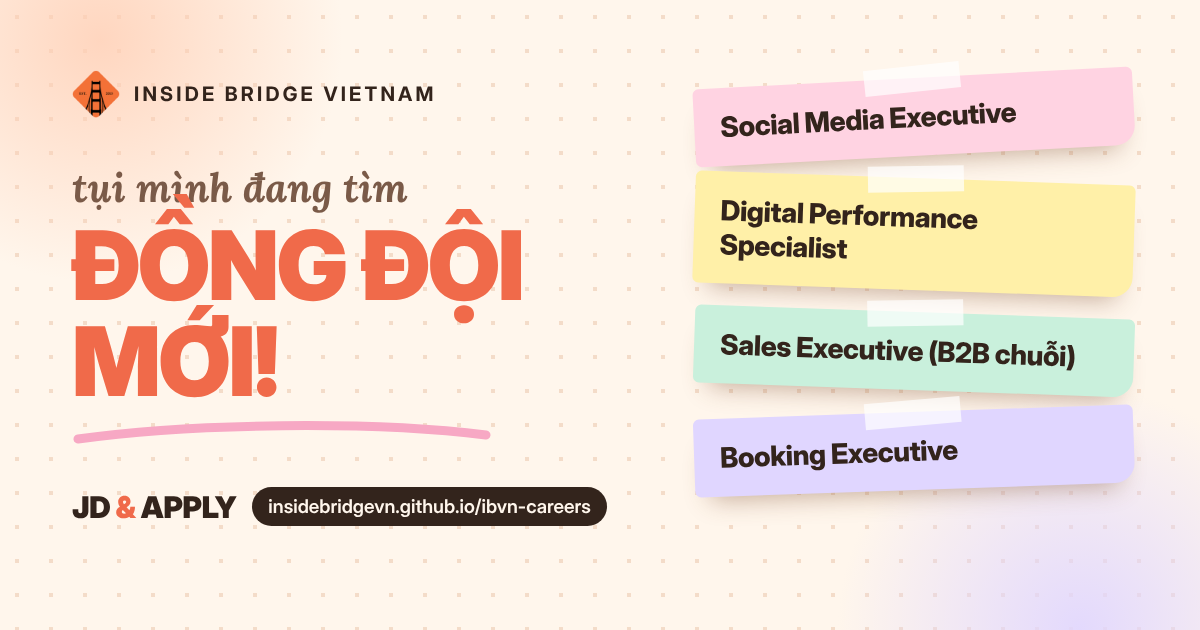
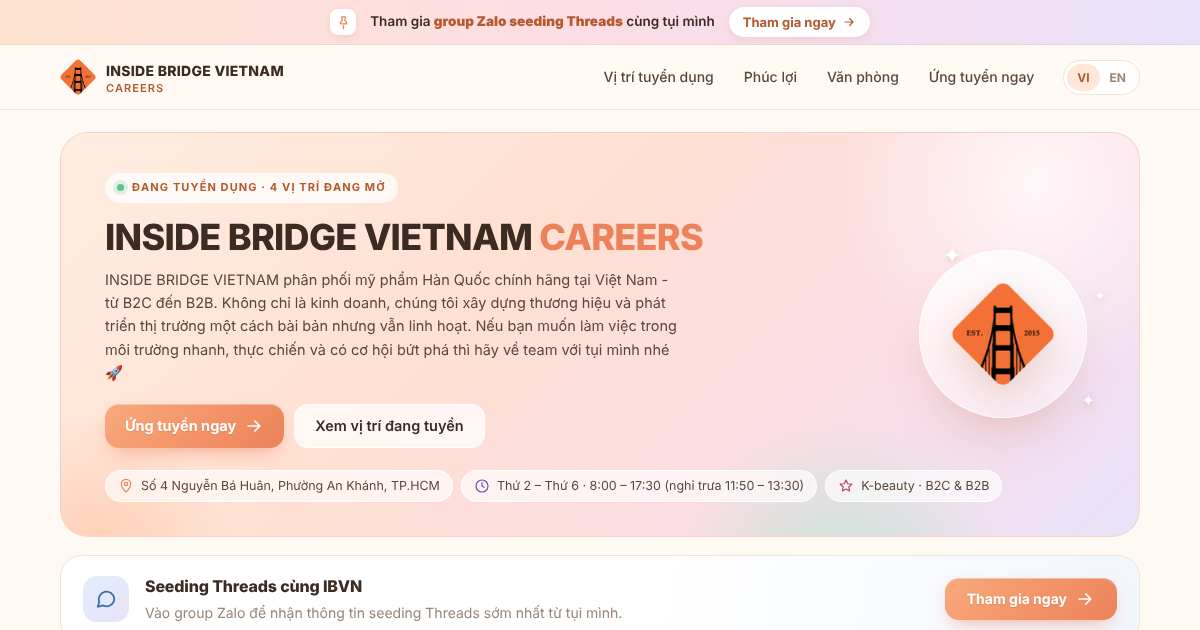
Link preview: use a screenshot of the site
Claude-Session: https://claude.ai/code/session_014vwsHaUyerLwHxWzpxMs2N

diff --git a/index.html b/index.html
@@ -6,17 +6,17 @@
 <title>IBVN Careers — Inside Bridge Vietnam</title>
 <meta name="description" content="Cơ hội nghề nghiệp tại INSIDE BRIDGE VIETNAM — phân phối mỹ phẩm Hàn Quốc chính hãng. Xem JD và ứng tuyển trực tuyến.">
 <meta property="og:title" content="INSIDE BRIDGE VIETNAM CAREERS">
-<meta property="og:description" content="Tụi mình đang tìm đồng đội mới! Xem JD và ứng tuyển ngay trên trang.">
+<meta property="og:description" content="Xem các vị trí đang tuyển của INSIDE BRIDGE VIETNAM và ứng tuyển ngay trên trang.">
 <meta property="og:type" content="website">
 <meta property="og:url" content="https://insidebridgevn.github.io/ibvn-careers/">
 <meta property="og:site_name" content="IBVN Careers">
 <meta property="og:locale" content="vi_VN">
-<meta property="og:image" content="https://insidebridgevn.github.io/ibvn-careers/assets/og-image.png">
+<meta property="og:image" content="https://insidebridgevn.github.io/ibvn-careers/assets/og-image.png?v=2">
 <meta property="og:image:width" content="1200">
 <meta property="og:image:height" content="630">
-<meta property="og:image:alt" content="INSIDE BRIDGE VIETNAM đang tuyển đồng đội mới">
+<meta property="og:image:alt" content="Trang tuyển dụng INSIDE BRIDGE VIETNAM CAREERS">
 <meta name="twitter:card" content="summary_large_image">
-<meta name="twitter:image" content="https://insidebridgevn.github.io/ibvn-careers/assets/og-image.png">
+<meta name="twitter:image" content="https://insidebridgevn.github.io/ibvn-careers/assets/og-image.png?v=2">
 <meta name="theme-color" content="#FFE8D9">
 <link rel="icon" type="image/png" href="assets/favicon.png">
 <link rel="preconnect" href="https://fonts.googleapis.com">
